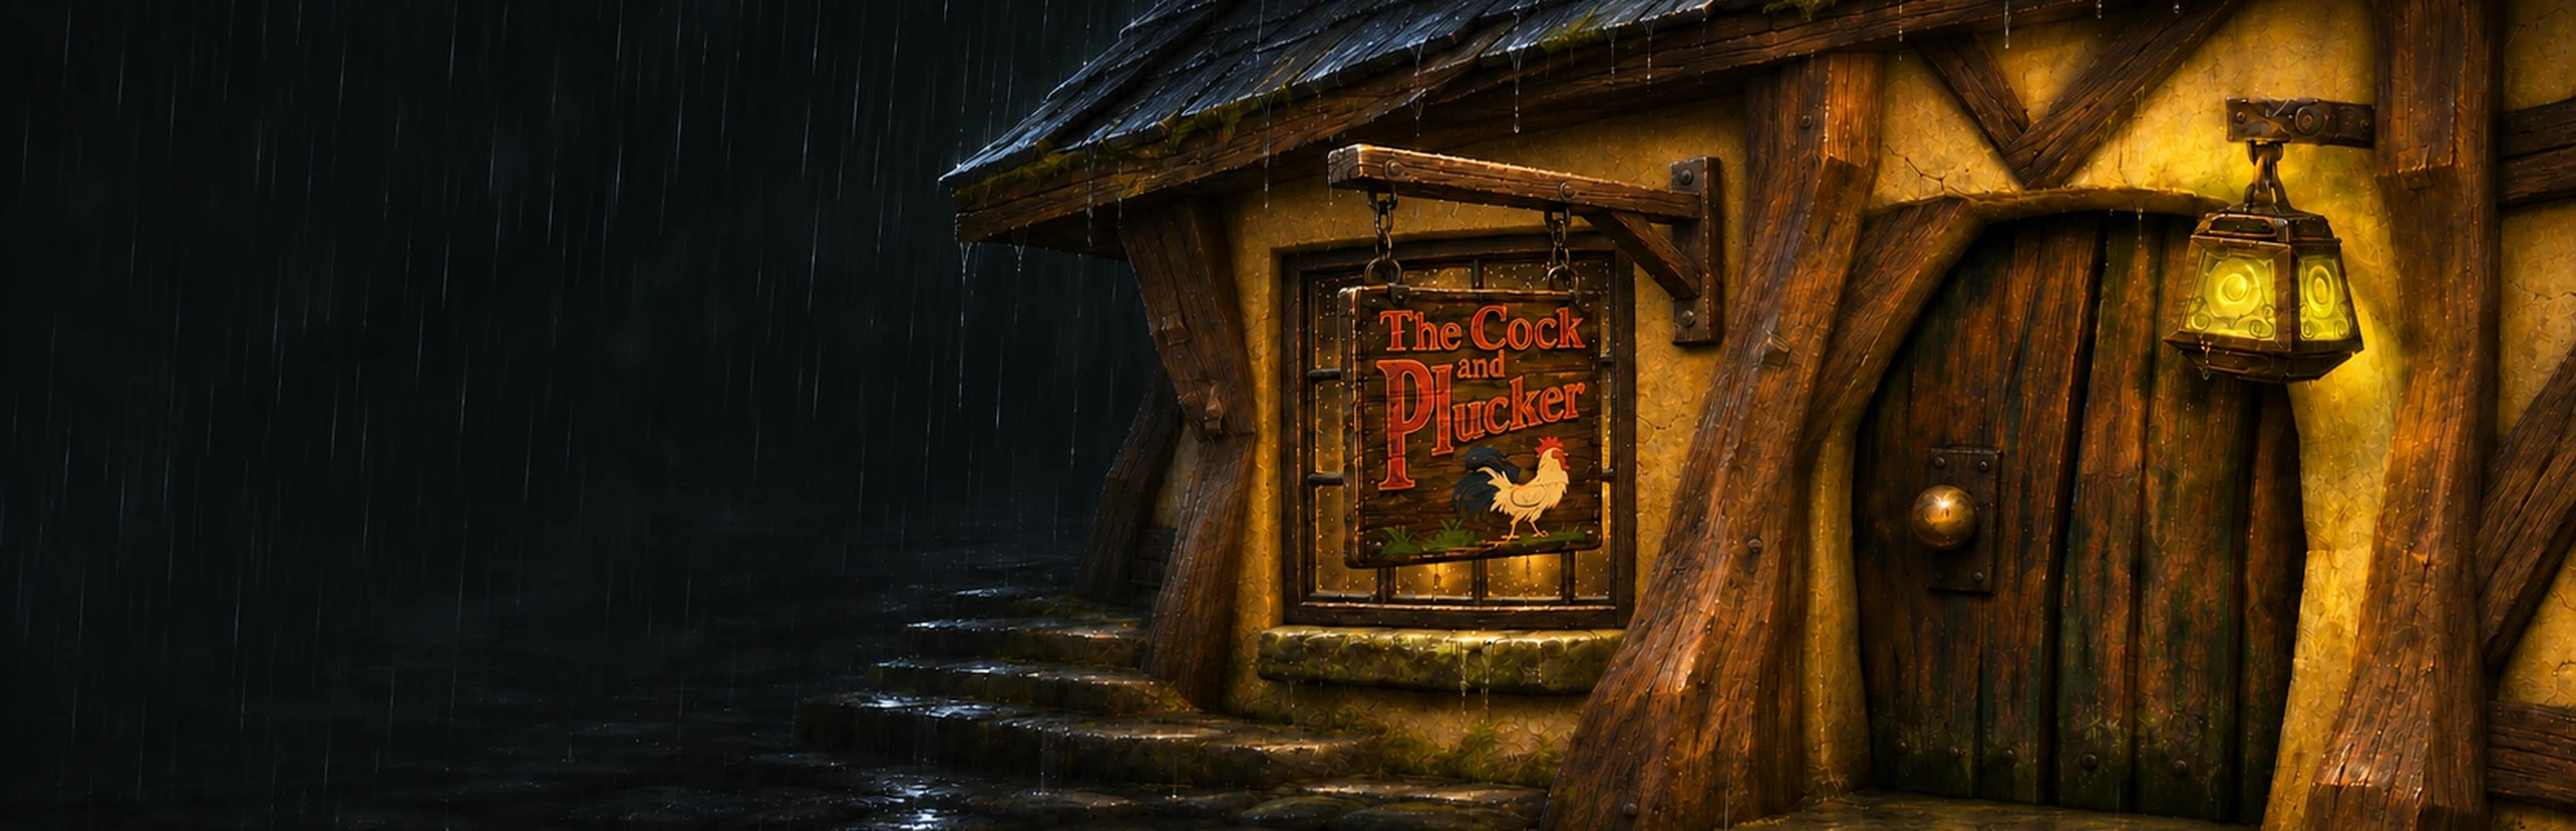
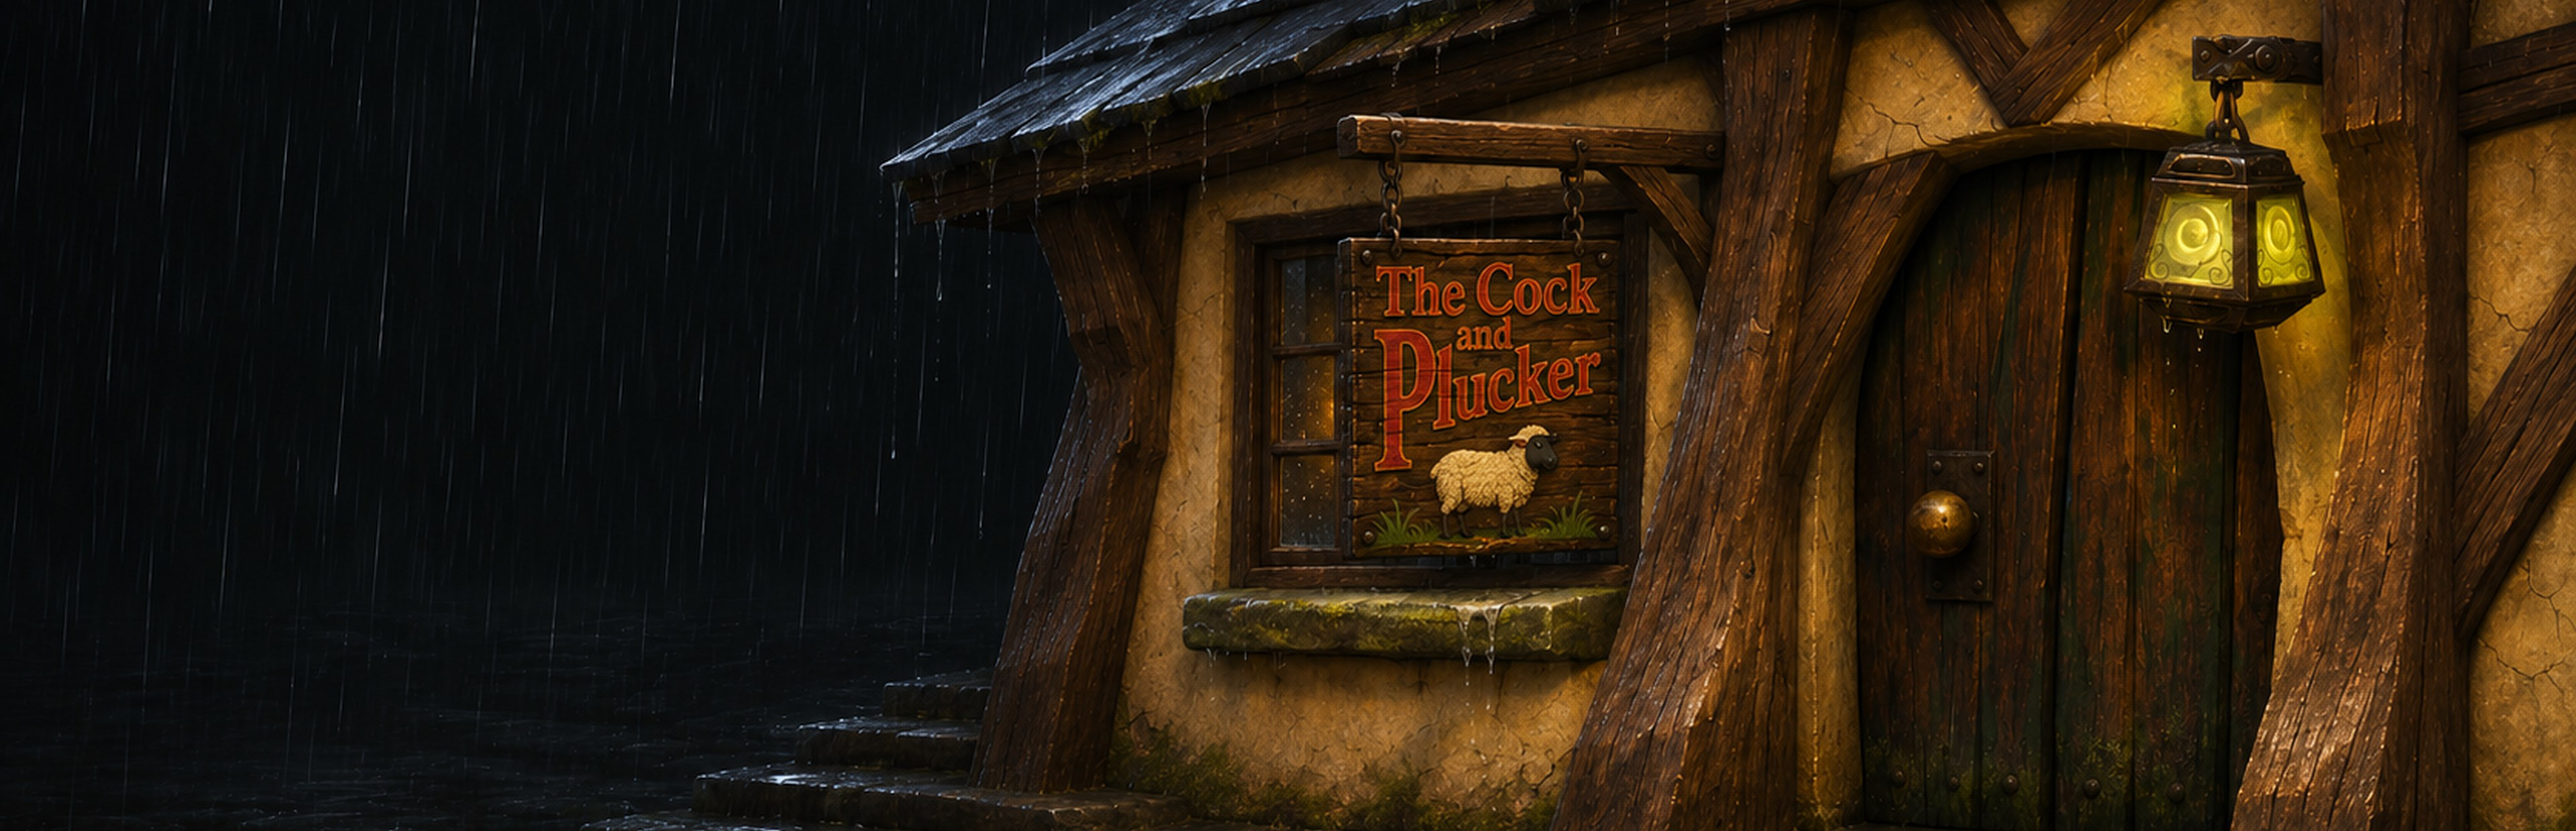
New pub artwork: 4K background and Steam images, noted as AI-made
The background is now a 3840x2160 picture, and the Steam capsules and hero
are cut from it, so the hero is no longer an enlarged picture. The README's
AI disclosure says the artwork was made with AI image generation and is not
taken from the game.

diff --git a/README.md b/README.md
@@ -220,6 +220,10 @@ and the quality assurance are mine: I decide what is worked on and how it
 should behave, test the changes in the game, and review them before they
 are merged.
 
+The Steam artwork (`assets/steam`) and `assets/background.webp` were made
+with AI image generation for this project. They are new pictures, not taken
+from the game.
+
 ## License
 
 The code written for this project (`src`, `tools`, `config` and the docs) is
